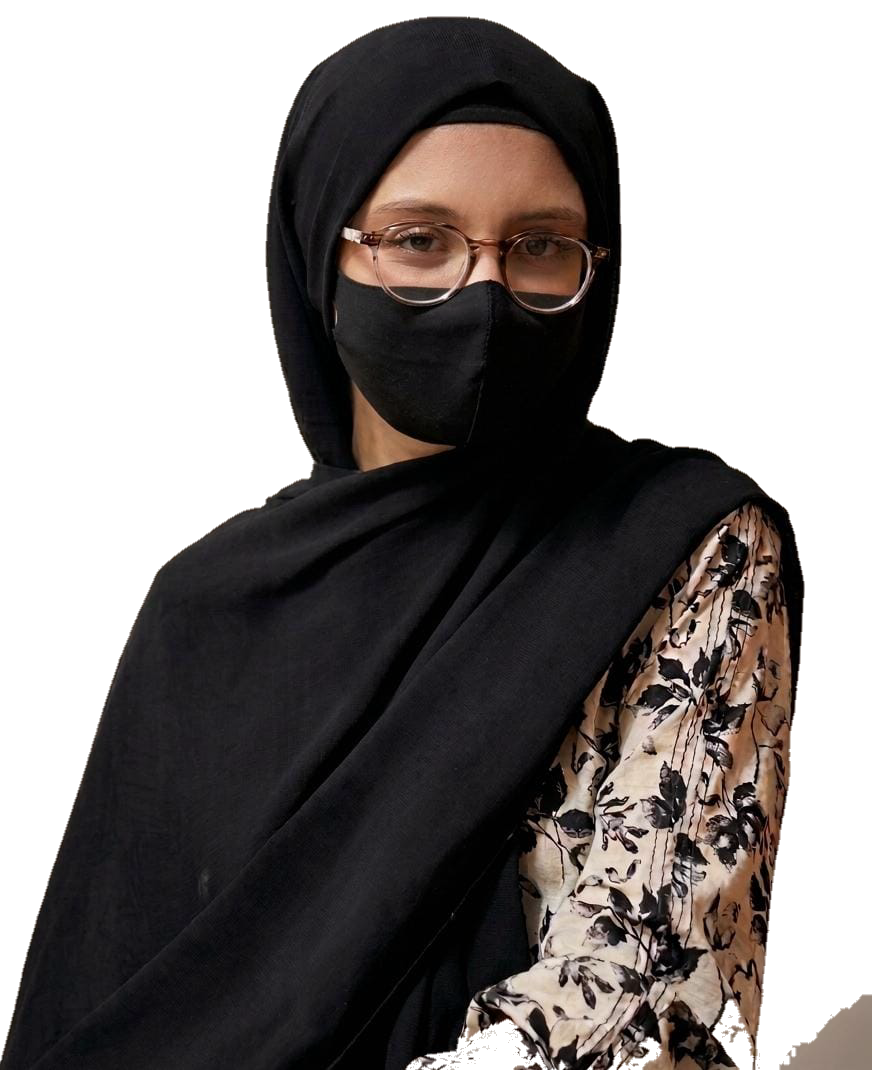
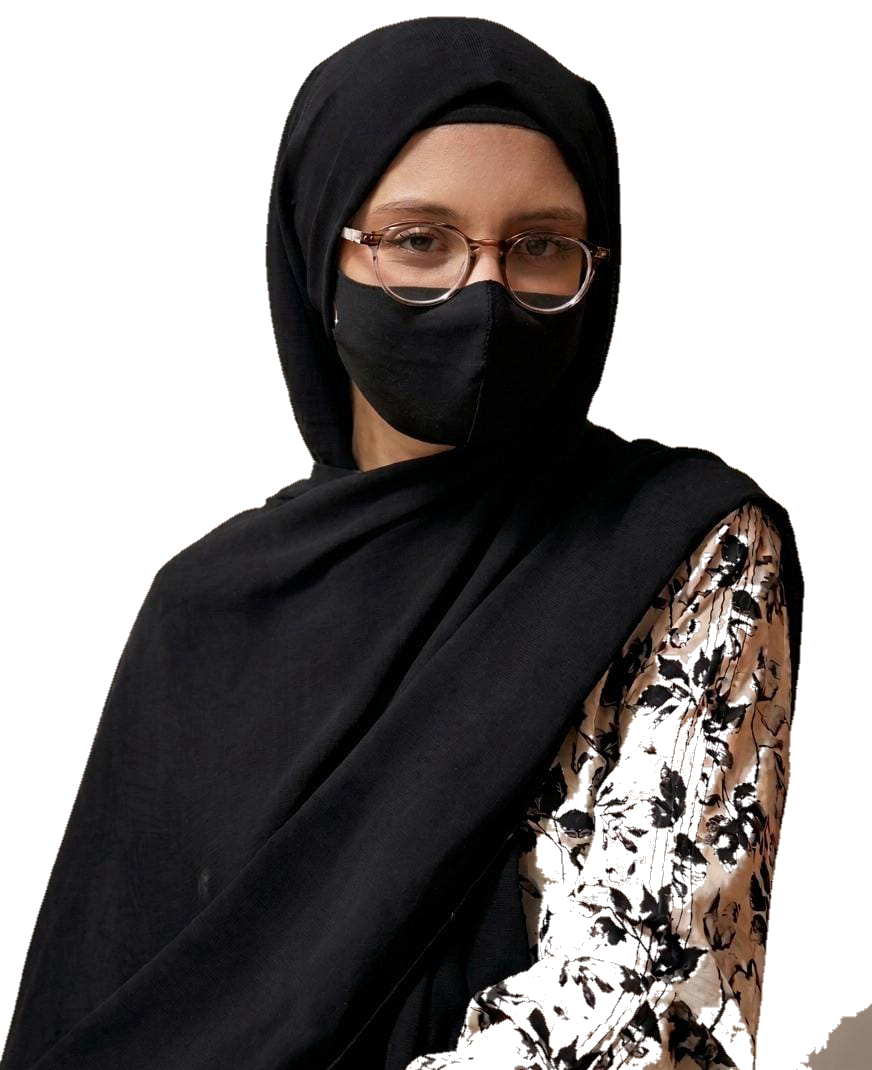
Clean up remaining off-white pieces in the portrait cutout
- Remove enclosed light-gray/white background pockets (between legs,
  under the arm) that the border flood fill could not reach
- Keep the face untouched; verified 0.0% near-white remains

diff --git a/index.html b/index.html
@@ -184,7 +184,7 @@
 
           <div class="hero__portrait reveal">
             <div class="hero__portrait-frame">
-              <img src="assets/images/profile.png" alt="Portrait of Armeen Ali Soomro" width="872" height="1070">
+              <img src="assets/images/profile.png?v=2" alt="Portrait of Armeen Ali Soomro" width="872" height="1070">
             </div>
           </div>
         </div>
